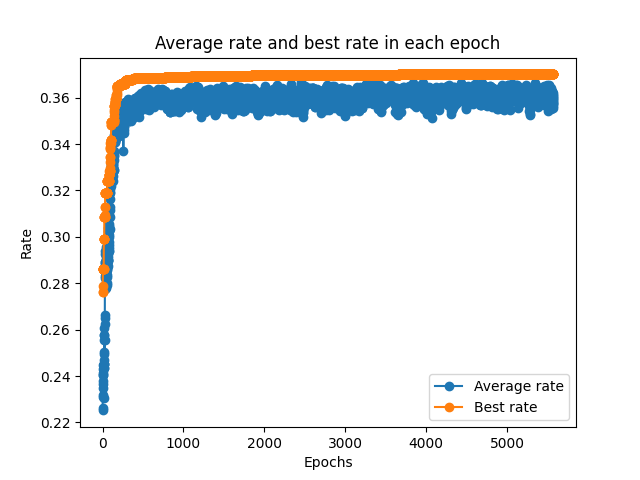
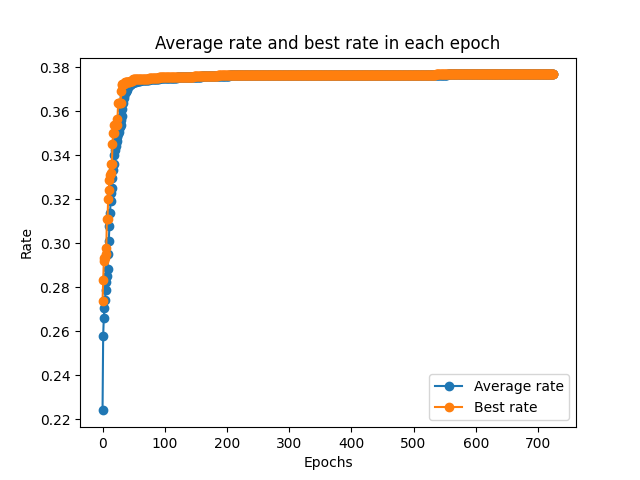
implemented two evolution strategies ES(mu + lambda) and ES(mu, lambda)

diff --git a/templates/metaheuristic.py b/templates/metaheuristic.py
@@ -41,10 +41,11 @@ class Metaheuristic:
             raise Exception("No solution has been found yet.")
 
         # extracting picks and normalizing
-        x = self.x_best.copy()
+        x = self.x_best["decision"].copy()
         picks = np.argsort(x)[-self.k :]
         mask = np.isin(np.arange(self.n), picks)
         x *= mask
+        x[x < 0] = 1e-6  # avoid negative values but have to keep them positive
         normalized = x / x.sum()  # potential division by zero
         normalized = np.nan_to_num(
             normalized, posinf=0.0, neginf=0.0
@@ -69,11 +70,11 @@ class Metaheuristic:
         start_time = time.time()
         while time.time() - start_time <= self.time_deadline:
             # reproduction
-            R = self.tournament_reproduction(curr_popoulation, curr_rate)
+            R = self.reproduction(curr_popoulation, self.children_size)
             # crossover
             C = self.averaging_crossover_extended_version(R)
             # mutation
-            children_popoulation = self.gaussian_mutation(C, self.sigma)
+            children_popoulation = self.mutation(C)
             # evaluation
             children_rate = self.rate(children_popoulation)
             x_t, q_t = self.find_best(children_popoulation, children_rate)
@@ -81,13 +82,34 @@ class Metaheuristic:
                 self.x_best = x_t
                 self.q_best = q_t
             # succession
-            curr_popoulation, curr_rate = self.elite_succession(
-                curr_popoulation, curr_rate, children_popoulation, children_rate
-            )
+            if self.preserve_parents:  # ES(μ + λ) algorithm
+                curr_popoulation, curr_rate = self.elite_succession(
+                    curr_popoulation,
+                    curr_rate,
+                    children_popoulation,
+                    children_rate,
+                    elite_size=self.pop_size,
+                )
+            else:  # ES(μ, λ) algorithm
+                curr_popoulation, curr_rate = self.elite_succession(
+                    children_popoulation,
+                    children_rate,
+                    [],
+                    [],
+                    elite_size=self.pop_size,
+                )
             self.avg_rate_epochs.append(curr_rate.mean())
             self.best_rate_epochs.append(curr_rate.max())
 
-    def __init__(self, time_deadline, problem_path, pop_size=20, sigma=0.5, **kwargs):
+    def __init__(
+        self,
+        time_deadline,
+        problem_path,
+        pop_size=20,
+        children_size=140,
+        preserve_parents=True,
+        **kwargs,
+    ):
         """
         Class initializer. It takes as an argument the maximum computation time (in seconds), controlled externally, and the path that contains the problem instance to be solved
         YOU CAN MODIFY THE HEADER TO INCLUDE OPTIONAL PARAMETERS WITH DEFAULT VALUES ( e.g., __init__(self, time_deadline, problem_path, mut_prob=0.5) )
@@ -104,17 +126,19 @@ class Metaheuristic:
         )
         # TODO: Configure the metaheuristic (e.g., selection operator, crossover, mutation, hyperparameter values, etc.)
         self.pop_size = pop_size
-        self.sigma = sigma  # standard deviation for gaussian mutation
+        self.children_size = children_size
+        self.preserve_parents = preserve_parents
 
     def evaluate(self, x):
         result = 0
-        x = x.copy()  # needed to avoid modifying original array
+        x = x["decision"].copy()  # needed to avoid modifying original array
         # pick k greatest elements from x
         picks = np.argsort(x)[-self.k :]
 
         # changing not chosen elements to zero and normalizing chosen ones
         mask = np.isin(np.arange(self.n), picks)
         x *= mask
+        x[x < 0] = 1e-6  # avoid negative values but have to keep them positive
         normalized = x / x.sum()  # potential division by zero
         normalized = np.nan_to_num(
             normalized, posinf=0.0, neginf=0.0
@@ -136,7 +160,11 @@ class Metaheuristic:
     def initialize_population(self, pop_size):
         population = []
         for _ in range(pop_size):
-            individual = np.random.rand(self.n)
+            individual = {}
+            individual["decision"] = np.random.rand(self.n)
+            individual["sigma"] = (
+                np.random.rand(self.n) * 0.5 + 0.1
+            )  # avoid too small sigma
             population.append(individual)
         return np.array(population)
 
@@ -148,16 +176,11 @@ class Metaheuristic:
         idx = np.argmax(rates)
         return population[idx], rates[idx]
 
-    def tournament_reproduction(self, population, rates):
-        pop_size = len(population)
-        new_population = []
-        for _ in range(pop_size):
-            i, j = np.random.choice(pop_size, size=2)
-            if rates[i] > rates[j]:
-                new_population.append(population[i])
-            else:
-                new_population.append(population[j])
-        return np.array(new_population)
+    def reproduction(self, population, children_size):
+        reproducted = [
+            population[i] for i in np.random.choice(len(population), size=children_size)
+        ]
+        return np.array(reproducted)
 
     def averaging_crossover_extended_version(self, population):
         children = []
@@ -167,30 +190,44 @@ class Metaheuristic:
             parent1 = population[i]
             parent2 = population[j]
             alpha = [np.random.rand() for _ in range(self.n)]
-            child = alpha * parent1 + (1 - np.array(alpha)) * parent2
+            child = {}
+            child["decision"] = (
+                np.array(alpha) * parent1["decision"]
+                + (1 - np.array(alpha)) * parent2["decision"]
+            )
+            child["sigma"] = (
+                np.array(alpha) * parent1["sigma"]
+                + (1 - np.array(alpha)) * parent2["sigma"]
+            )
             children.append(child)
         return np.array(children)
 
-    def gaussian_mutation(self, population, sigma):
+    def mutation(self, population):
+        a = np.random.normal(0, 1)
+        b = np.random.normal(0, 1, size=self.n)
+        tau = 1 / np.sqrt(2 * np.sqrt(self.n))
+        tau_prime = 1 / np.sqrt(2 * self.n)
+
         mutated_population = []
         for individual in population:
-            noise = np.random.normal(0, sigma, size=self.n)
-            mutated_individual = individual + noise
-            mutated_population.append(mutated_individual)
+            new_sigma = individual["sigma"] * np.exp(tau_prime * a + tau * b)
+            new_individual = {}
+            new_individual["decision"] = individual[
+                "decision"
+            ] + new_sigma * np.random.normal(0, 1, size=self.n)
+            new_individual["sigma"] = new_sigma
+            mutated_population.append(new_individual)
         return np.array(mutated_population)
 
     def elite_succession(
-        self, parent_population, parent_rates, child_population, child_rates
+        self, parent_population, parent_rates, child_population, child_rates, elite_size
     ):
-        # hardcoded elite_size = 1, cuz then no need to sort, just pick best and worst
-        survived_parent_idx = np.argmax(parent_rates)
-        survived_parent = parent_population[survived_parent_idx]
-        survived_parent_rate = parent_rates[survived_parent_idx]
-        worst_child_idx = np.argmin(child_rates)
-        if survived_parent_rate > child_rates[worst_child_idx]:
-            child_population[worst_child_idx] = survived_parent
-            child_rates[worst_child_idx] = survived_parent_rate
-        return child_population, child_rates
+        combined_population = np.concatenate((parent_population, child_population))
+        combined_rates = np.concatenate((parent_rates, child_rates))
+        elite_indices = np.argsort(combined_rates)[-elite_size:]
+        new_population = combined_population[elite_indices]
+        new_rates = combined_rates[elite_indices]
+        return new_population, new_rates
 
 
 def draw_graph(v1, v2):
@@ -208,10 +245,19 @@ def draw_graph(v1, v2):
 
 
 if __name__ == "__main__":
+    pop_size = 80
+    chilren_size = pop_size * 7  # typically lambda = 7 * mu
+    print("ES(mu + lambda)")
+    print("Population size:", pop_size, "Children size:", chilren_size)
     met = Metaheuristic(
-        time_deadline=15, problem_path="instances/instance_n100_k10_7.json"
+        time_deadline=60,
+        problem_path="instances/instance_n100_k10_7.json",
+        pop_size=pop_size,
+        children_size=chilren_size,
+        preserve_parents=True,
     )
     met.run()
+    # print("Best solution found:\n", met.x_best)
+    print("Best rate found:", met.q_best)
     print("Best solution found:\n", met.get_best_solution())
-    print("\nBest rate found:", met.q_best)
     draw_graph(met.avg_rate_epochs, met.best_rate_epochs)
